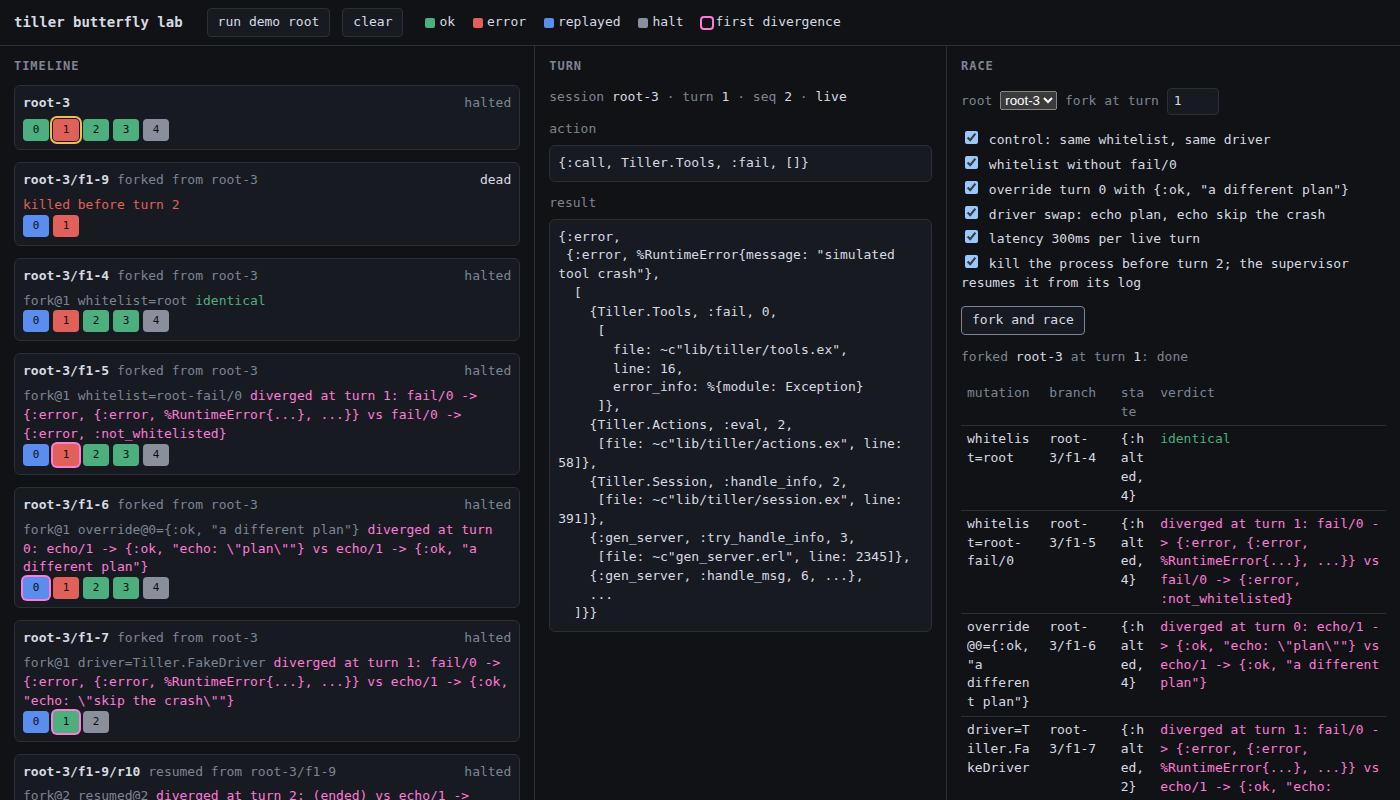
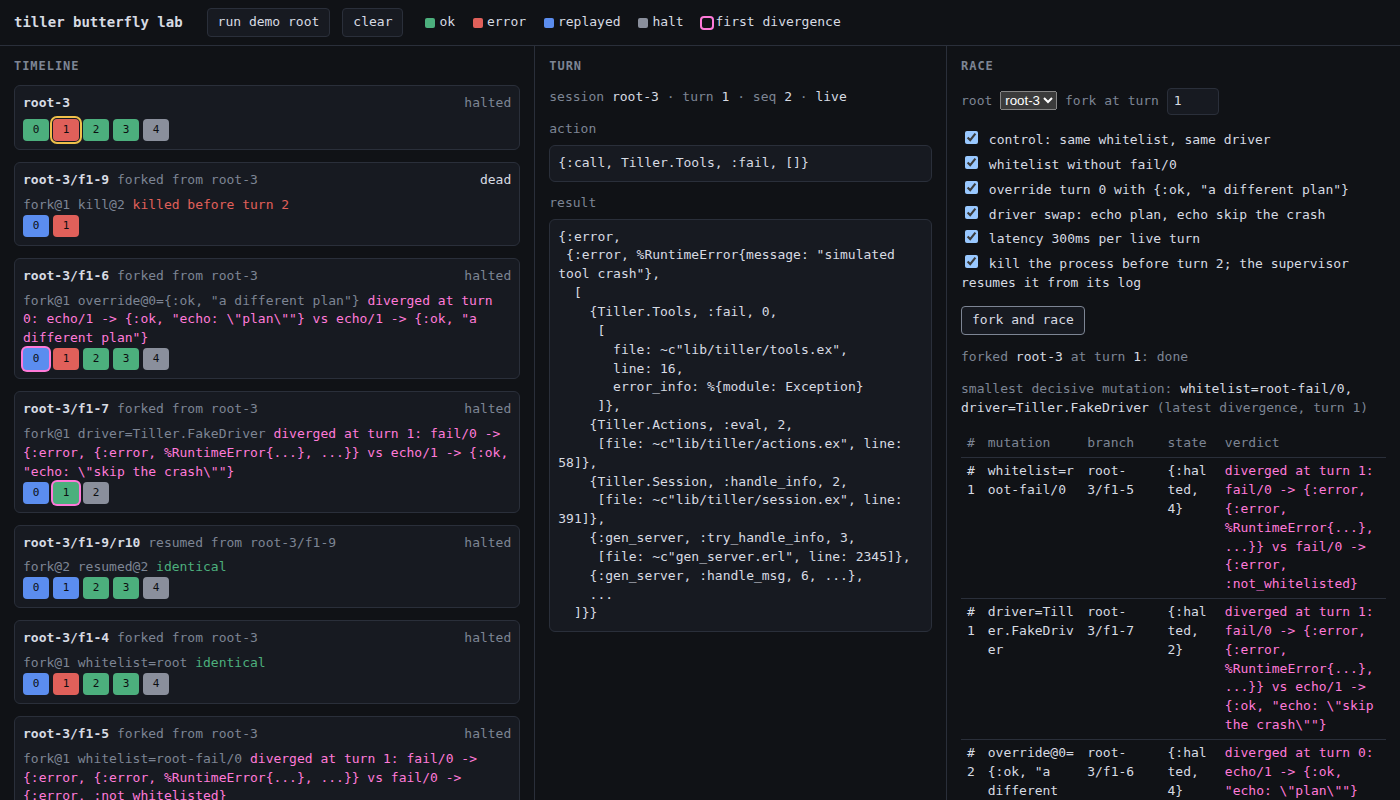
lab: rank mutations, the smallest decisive one first (open question 3)
Axes are incommensurable, so no size is compared across axes. What
every branch shares is the trajectory it perturbed, and the divergence
turn measures how much of it survived: later divergence is the smaller
change to the run. Among branches that diverged, later turn ranks
first; same turn and same axis, smaller Mutation.size/1 (tools removed
or added, milliseconds, else one) ranks first; same turn and different
axes tie. Never-diverged branches had no effect and are unranked.
Dense ranks, so #1 can be two branches.

Lab.race/4 sets rank on every branch; ranked/1 sorts, smallest/1 is
the top tie, format/1 prints in rank order. The race table gains a
rank column and names the smallest decisive mutation above it.

Claude-Session: https://claude.ai/code/session_019ySR7GcjhVpCoYTYykcbAr

diff --git a/docs/designs/agent-butterfly-lab.md b/docs/designs/agent-butterfly-lab.md
@@ -475,9 +475,32 @@ before turn N", and its resume as "resumed from <id>".
 The `kill_at` turn must be at or after the fork turn
 (`{:kill_before_fork, t, turn}` otherwise).
 
-**All five mutation axes are live.** Remaining open questions: 3
-(ranking incommensurable mutations) and 4 (32 branches on one screen),
-both stretch and both untouched.
+**All five mutation axes are live.**
+
+## Open question 3 (2026-09-06): the smallest decisive mutation
+
+**Decided: rank within an axis by size, across axes by divergence
+turn, and never compare sizes across axes.** A whitelist removal and
+200ms of latency have no common scale, but every branch in a race
+perturbed the same trajectory, and the divergence turn measures how
+much of it survived. A branch that stays identical to its parent for
+longer before diverging is the smaller change to the run. So among
+branches that diverged, a later divergence turn ranks first; on the
+same turn and the same axis, the smaller `Tiller.Mutation.size/1`
+(tools removed or added, milliseconds, else one) ranks first; on the
+same turn and different axes the branches tie and share a rank.
+Branches that never diverged had no effect and are unranked. Errors
+are untouched. Dense ranks, so `#1` can be two branches.
+
+`Tiller.Lab.race/4` sets `rank` on every branch; `ranked/1` sorts,
+`smallest/1` returns the top tie, `format/1` prints in rank order with
+`#n` or `--`. The race table shows the rank column and names the
+smallest decisive mutation above it. This is a partial order with no
+invented weights; the hand-assigned-weights alternative stays
+available as a `key:`-style option if someone needs a total order.
+
+Remaining: open question 4 (32 branches on one screen), stretch,
+untouched.
 
 ## What I noticed about how you think
 

diff --git a/README.md b/README.md
@@ -57,7 +57,9 @@ Tiller (DynamicSupervisor)
   `result_override`, `latency`, `kill_at`), re-live the prefix through
   `Tiller.Driver.Replay` with recorded results injected and nothing
   re-executed, then run live. `race/4` forks N branches, runs them
-  concurrently, and reports each one's first divergence from the parent.
+  concurrently, reports each one's first divergence from the parent, and
+  ranks them: later divergence is the smaller change, same turn on the
+  same axis ranks by size, same turn on different axes ties.
 - **Restart is resume**: a session's packet (driver, initial context,
   whitelist, lineage) lives in `Tiller.State` beside its events. When the
   supervisor restarts a killed session, `init/1` finds the packet and comes
